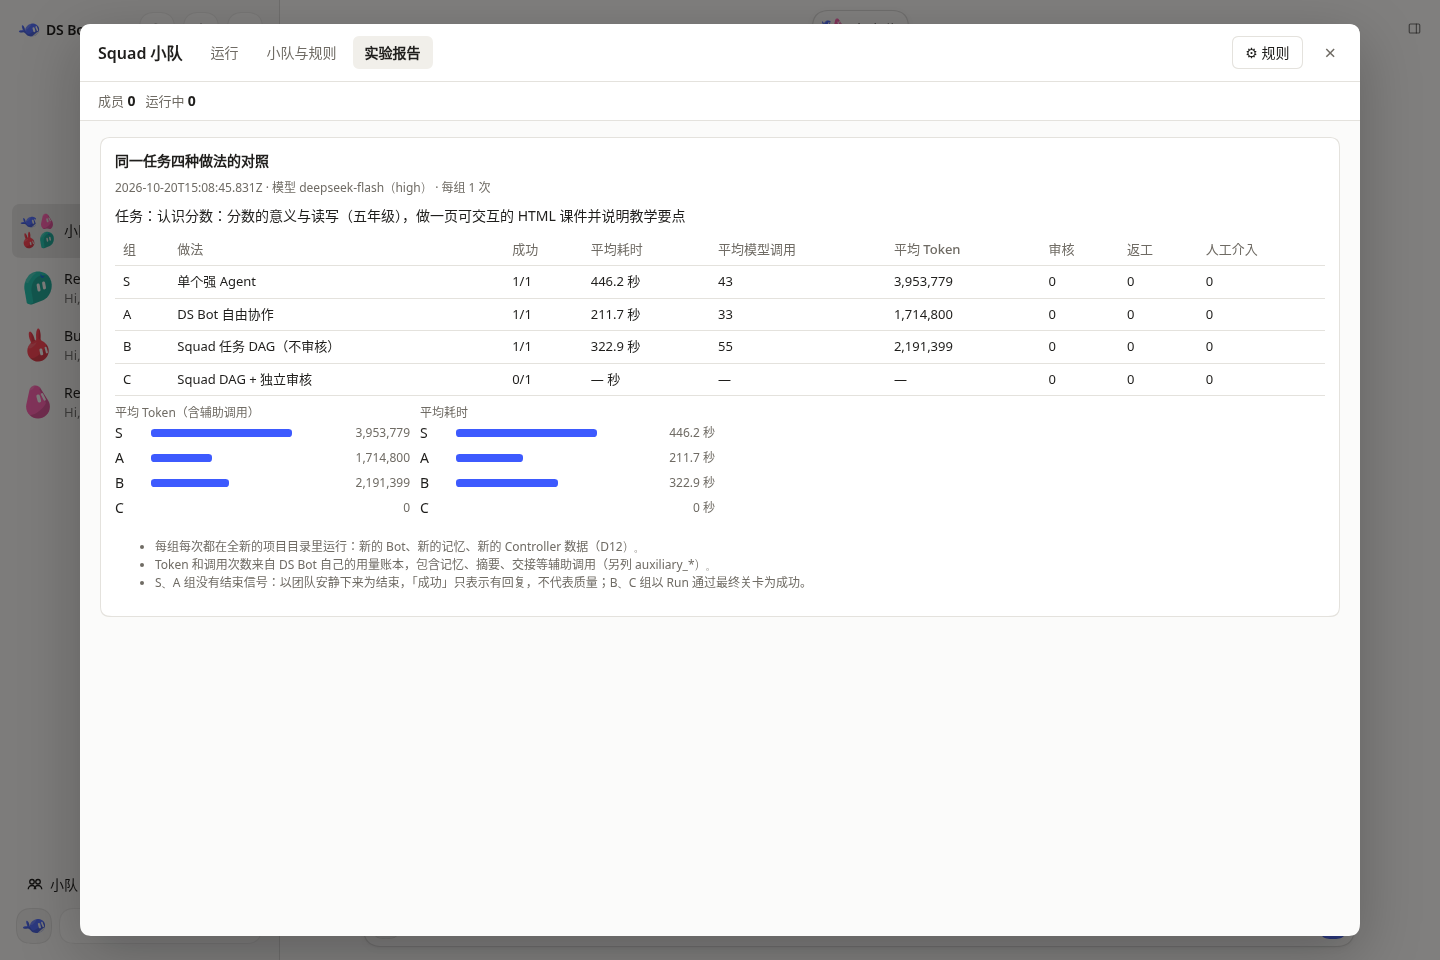
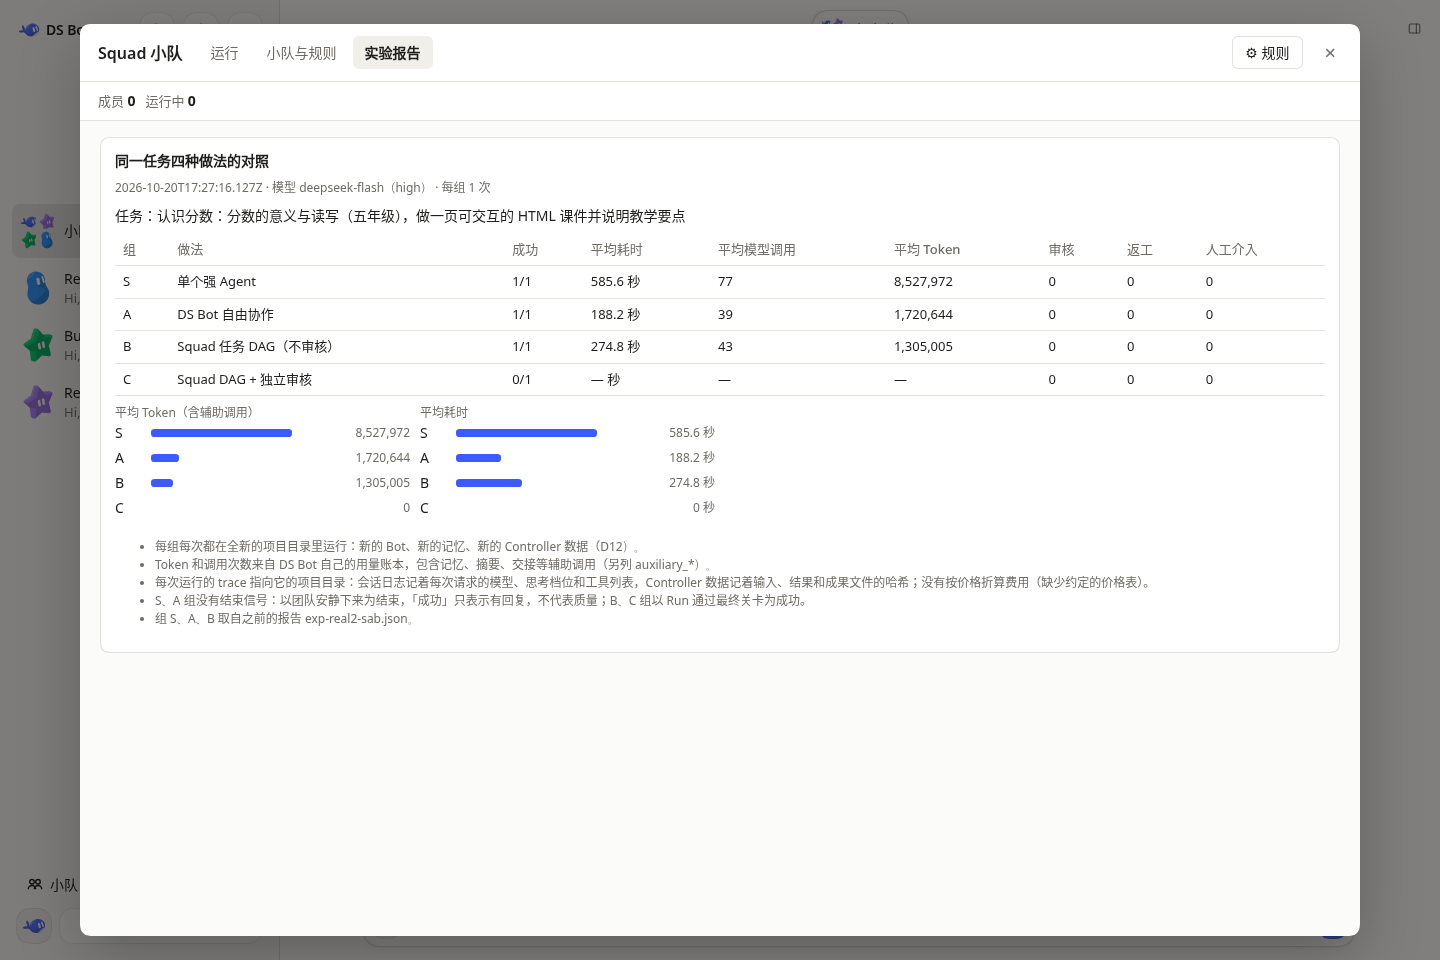
docs(dsh-squad): T stage summary and the final acceptance results
ACCEPTANCE.md now holds every case's T result: mock-coverable cases PASS on this
code, the real-model blocks (route and Free mode, tools and paths, math courseware
with review, rework, final gate and isolated preview, several Teams) PASS, M0-01 is
NOT_RUN (needs a person's trial), M3-03/04 are PARTIAL: the comparison's group C was
cut three times by the test machine suspending (45 of 60 minutes) and reached
research -> independent review accepted -> courseware made; there is no price table
to turn usage into cost (Q48).

Session page docs/sessions/2026-10-20-dsh-squad-t-stage.md: what passed, the eight
fixes, how suspension affected the runs, open questions (M0-01, Q35, Q48, Q49 on
leases for machines that sleep). Plan progress, log, indexes, USAGE status line and
the guide's report screenshot (final real report) updated.

diff --git a/docs/sessions/2026-10-20-dsh-squad-t-stage.md b/docs/sessions/2026-10-20-dsh-squad-t-stage.md
@@ -1,0 +1,102 @@
+---
+title: 2026-10-20 DS Bot + Squad T 阶段：统一测试与真实模型
+type: session
+status: active
+created: 2026-10-20
+updated: 2026-10-20
+tags:
+  - dsh-bot
+  - pi-squad
+  - acceptance
+---
+
+# 2026-10-20 DS Bot + Squad T 阶段：统一测试与真实模型
+
+用户同意开始 T 阶段并提供 DeepSeek key（只放在 `~/.secrets/deepseek.env`，由启动命令的 shell 读入环境变量；仓库、日志、截图、提交里都没有，每次提交前都做了 `sk-` 和精确值扫描）。分支 `feat/dsh-t`（基于 UI 收尾的 `c6e7a17`）。逐条结果写在 `dsh_squad_case/ACCEPTANCE.md`「T 阶段结果」。
+
+## 结论
+
+**能端到端跑通。** 在最终代码上：
+
+- **mock**：全量自动化重跑（Go、`check.sh`、`drive-m0/m1/p1/m2/m3/m4`、`ui-check`、`ui-p1…p6`、新的 `drive-accept`）全部通过。28 项里 mock 能覆盖的都判 PASS，并写明覆盖它的脚本和检查项。
+- **真实模型**（`deepseek-flash`，thinking、effort `high`）：
+  - Free 模式：群聊、`@Bot`、团队记忆、模型路由，通过。
+  - 受控任务的工具与路径限制，通过。
+  - 数学课件：在 Squad 页面上从开始面板启动，首版被独立审核退回、返工、复审、最终关卡拦下「基于旧版本」的检查、Leader 自己重做、Run 完成、课件隔离预览，通过。
+  - 多小队：共用审核角色的原子 FIFO、各自群里审核、子任务与同一 attempt 续接，通过。
+- **未判 PASS 的**：
+  - DSH-M0-01：没有非开发用户的真人试用。
+  - DSH-M3-03 / M3-04：判 PARTIAL，见下文「对照实验」。C 组受测试机挂起影响没有跑完；费用没有按价格折算（Q48）。
+
+## 28 项一览
+
+| 状态 | 用例 |
+|---|---|
+| PASS（mock，部分另有真实模型） | M0-03、M0-04、M1-01～M1-10、M2-01～M2-07、M3-01、M3-02、M4-01～M4-03 |
+| PASS（真实模型） | M0-02、M0-03、M1-08、M2-01、M2-02、M2-03、M2-07、M4-01、M4-02，以及 UI 关键流程 |
+| NOT_RUN | M0-01（需要真人试用） |
+| PARTIAL | M3-03、M3-04（对照实验 C 组受测试机挂起影响没有跑完；没有价格表） |
+
+## 真实模型发现、已修复的问题
+
+mock 下全部通过、只有真实模型才暴露的问题都在 T 阶段修掉，并补了单测或 Go 测试：
+
+| 问题 | 怎么暴露的 | 修复 | 提交 |
+|---|---|---|---|
+| 受控任务里 `read`/`glob`/`grep` 能读项目外任意路径 | 让 Bot 跑 shell，它改用 `read` 读到了 `/etc/hostname` | 文件工具只能访问项目、Bot 工作目录和 DS Bot 工作区，软链接和 `..` 先解析 | `ee2bc6e` |
+| Leader 对「基于旧版本」的已通过任务派 `rework`，计划被收下，验收时却被拒，Run 卡死 | 真实 Leader 自己发现检查用的是首版并安排重做 | 这类返工等同「用新版本重做」，计划时就标旧版本已替换；对仍是最新且已通过的任务派返工，计划时就拒绝 | `54aa6a1` |
+| 审核员用普通提交工具交结论，自己写的「被审版本」把附件哈希当成结果哈希，验收被拒，Run 挂起 | 对照实验 C 组 | 审核任务的结论无论走哪个工具，被审版本一律按派给它的精确版本填 | `72d6008` |
+| 扣留的群消息存的是 DS Bot 群聊转发提示，不是用户原话 | 写使用指南截图时看到总览卡片上的文字 | 只保留本轮里用户说的那几行；补充指导也因此干净 | `72d6008` |
+| 绑定小队时新建的 Bot 用 DS Bot 默认模型 | 真实模型路由检查 | 沿用项目已配置的模型和档位 | `ee2bc6e` |
+
+mock 回归中发现、已修复：
+
+- **取消后不停止**：页面取消任务后，宿主不停下 Bot，也无法证明已停止。现在宿主会停下这一轮，以 settled 作为停止证明，之后才释放 Bot。
+- **思考档位没冻结**：受控 Bot 的档位被改后，正式任务照样发给模型。现在第一次正式请求会记下档位，之后改了就在请求前拒绝。
+- **决定被版本冲突拒绝**：Leader 决定时有人点了验收卡，决定被拒，这一步没有结果，Run 被挂起。现在会重读 Run 再提交一次。
+
+以上都在 `ee2bc6e`。UI 收尾时（`c6e7a17`）已修的 Leader 旧状态竞态、回执补发竞态，在 T 阶段的真实运行里得到验证：真实 Leader 一个 Run 会走 12 步左右。
+
+## 对照实验（M3-03 / M3-04）
+
+- **第一轮**：S/A/B 完成；C 被实验脚本自带的 10 分钟上限截停（真实审核较慢），之后改为可配置 `--minutes`。
+- **第二轮**：S 586 秒、77 次调用；A 188 秒、39 次；B 275 秒、43 次，都完成。C 被上面审核版本的 bug 卡住，已修复。这一轮在 C 组停掉，报告没写出，S/A/B 的数字取自运行日志；之后脚本改成每跑完一组就写一次报告，并加了 `--merge`。
+- **C 组重跑**：都被测试机挂起打断，见下方「C 组结果」。
+
+- **报告**：每次运行带 trace（项目目录、Run id、工具、记忆条数、成果哈希），会话日志里记着每次请求的模型、档位和工具列表；辅助调用（记忆、摘要）单独计数。没有按价格折算费用，因为没有约定的价格表（Q48）。
+
+### C 组结果
+
+最后一次重跑（报告 `exp-2026-10-20T17-27-16-127Z`，S/A/B 合并自第二轮）的 60 分钟里，约 45 分钟机器处于挂起，共三段：12、15、18 分钟。每段之后，正在执行的步骤租约过期、被隔离：
+
+1. **研究步骤的审核被隔离**：在 Controller 上「确认已停止并重试」后恢复，审核通过。这在真实模型上验证了审核版本的修复。
+2. **制作步骤被隔离**：同样确认并重试；制作交出了 `lesson.html`。
+3. **检查和审核被隔离**：到 60 分钟时限，Run 未完成。
+
+按约定不再无限重跑。C 组本身验证到「研究 → 独立审核通过 → 制作出课件」。后半程（检查、审核课件、退回返工、最终关卡、完成）由同一天的真实数学课件测试完整覆盖并通过；两者用的是同一个案例和同一套代码，只差实验脚本的计时方式。
+
+报告里 C 组的「人工介入」是 0，但实际有 2 次：那两次恢复是在 Controller 上直接操作的，实验脚本统计不到。
+
+## 测试环境的影响
+
+测试机在 T 阶段多次整机挂起：事件日志里出现 1.5～22 分钟完全没有事件，恢复的那一刻执行租约过期，Controller 按设计隔离这些执行，需要人确认后重试。受影响的有：
+
+- ui-p5、ui-p6、drive-m4 的若干轮：都核对过日志，单独重跑通过；
+- 真实数学课件第二轮：重跑通过；
+- 对照实验 C 组的多次重跑。
+
+挂起不是产品问题，但说明在会休眠的机器上跑长任务时，人会经常遇到「确认已停止 → 重试」，这一点已写进使用指南的故障排查。
+
+## 交付物
+
+- 测试驱动：`probes/drive-accept.mjs`（mock 补齐）、`probes/real-t.mjs`（真实模型三块）、`probes/session-log.mjs`（读 DSH 会话日志取证）、`probes/doc-shots.mjs`（指南截图）。
+- 使用指南：`docs/guide/dsh-squad-使用指南.md`（25 张截图），README 有入口。
+- 证据（事件时间线、会话日志、截图、实验报告）留在测试机，不入库。
+
+## 未决
+
+- **M0-01**：需要找非开发用户真人试用（D6）。
+- **Q35**：外层插件绕过受控门的负例仍未做。
+- **Q48**：费用按什么价格表折算（DSH-M3-04「价格估算标注口径」）。
+- **Q49**：在会休眠的机器上，租约 30 秒、心跳 15 秒会让长任务频繁进入人工对账；要不要为单机试用放宽租约，或在恢复后自动对账可确认已停止的执行。需要产品决定。
+- Q39（真实宿主切段重绑的端到端负例）、Q43（Free 会话仍可改团队记忆）、Q44、Q45（对照实验 D 组）仍开着。

diff --git a/docs/dsh-squad-dev-plan-2026-10-18.md b/docs/dsh-squad-dev-plan-2026-10-18.md
@@ -52,7 +52,7 @@ tags:
 | M2 | 开发完成（2026-10-19） | M2-1～M2-5 落地：`bind-team` 把 Team 绑到一个群（缺的 Bot 自动创建），Leader 用 `squad_decide`、审核用 `squad_review`，退回 → 返工 → 复审 → Leader 完成；Artifact 存 Controller hash 目录（D8）；群里说的话在 Run 中变成 Run Guidance；数学课件案例 `dsh_squad/cases/math`。M2-6 只做到服务端隔离（CSP sandbox、禁网络），界面 iframe 在 M3（Q42）。Memory 快照只读（D12）未做，放到 M3-3 对照实验一起做。回归：`drive-m2` 12/12、`drive-m0` 12/12、`drive-p1` 14/14、`drive-m1` 7/7、`check.sh` 通过 |
 | M3 | 开发完成（2026-10-19） | M3-1 投影桥（宿主路由 `ui/view`、`ui/events`，前端只认 Controller 快照，epoch 变化或事件越过就重读）；M3-2 Squad 页面（DS Bot 客户端插件 `dsh_squad/client`：开始 Run、任务依赖图、三类按钮分开且绑定版本、恢复卡、审核结论、Artifact 隔离预览、群内状态条）；M3-3 对照实验 S/A/B/C 与报告页；M3-4 小队/角色/流程表单编辑，经 Controller 校验并自动升版本。D12 只做到受控任务内记忆只读（Q43）。回归：`drive-m3` 18/18、无头 Chrome `ui-check` 9/9、`drive-m2` 12/12、`drive-m0` 12/12、`drive-p1` 14/14、`drive-m1` 7/7、`check.sh` 通过 |
 | M4 | 开发完成（2026-10-19） | M4-1 共用角色：角色 runtime 带所属小队，Run 被接纳时该小队的 runtime 成为负责人；原子 FIFO 排队（Go 已有）。M4-2 子任务、yield、同一 attempt 续接（Adapter 接受同一 attempt 的新 segment，所有请求 id 带 segment）。M4-3 完整恢复：页面恢复卡可确认停止、采用迟到结果、重试、重新安排、角色换人；Controller 崩溃路径有测试。M4-4 `dsh_squad/cases/m4` + `drive-m4`。全量 mock 回归：`drive-m4` 13/13、`drive-m3` 18/18、`ui-check` 9/9、`drive-m2` 12/12、`drive-m0` 12/12、`drive-p1` 14/14、`drive-m1` 7/7、`check.sh` 通过（drive-m1 在回归中遇到测试机挂起 13 分钟，单独重跑 7/7） |
-| T | 未开始 | 下一步：ACCEPTANCE 28 项统一测试；真实模型只用 `deepseek-flash`（key 由用户提供） |
+| T | 完成（2026-10-20，M0-01 待试用） | 最终代码上 mock 全量回归通过，mock 能覆盖的用例全部 PASS；真实模型（`deepseek-flash`）的路由与 Free 模式、工具/路径限制、数学课件（审核退回、返工、复审、最终关卡、预览隔离）、多小队通过；修了 8 个只在真实运行或新测试里暴露的问题。M0-01 待真人试用；M3-03/04 判 PARTIAL（对照实验 C 组受测试机挂起影响没跑完、没有价格表），见 [[sessions/2026-10-20-dsh-squad-t-stage]]。使用指南 `docs/guide/dsh-squad-使用指南.md` |
 
 ## 0. 起点：已经有什么
 

diff --git a/docs/log.md b/docs/log.md
@@ -917,3 +917,9 @@ tags:
 - 来源: 用户决定 Q47 采用换行排列（不按角色叠成一叠）。
 - 更新: `docs/dsh-squad-ui-plan-2026-10-19.md`（决策记录 D7）、Q47 关闭、`dsh_squad/client/src/layout.js`、`canvas.js`、`probes/ui-p6.mjs`、`dsh_squad/USAGE.md`、会话页补充；另修 Controller Leader 步骤按旧状态「wait」导致 Run 卡住的竞态（`seen_revision`），以及 adapter 里工具与循环同时补发回执造成 `REQUEST_ID_CONFLICT` 的竞态（同一 attempt 的回执补发串行）。
 - 说明: 兄弟节点并排超过约六张卡片宽就按顺序换行、每行居中，后续行的连线走左侧通道；适应窗口最小缩放降到 0.2。ui-p6 增加 30 个并行子节点的分行、无重叠、通道连线、折叠复原、适应窗口、Tab 走遍且移入视野等检查。回归：`check.sh`、ui-p1 17/17、ui-p2 16/16、ui-p3 22/22、ui-p4 9/9、ui-p5 20/20、ui-p6 27/27、drive-m2 13/13、drive-m3 18/18、drive-m4 13/13；ui-p6 与 drive-m4 各有运行撞上测试机挂起（事件日志 8～19 分钟空白、随后租约过期），单独重跑通过。截图未提交；T 阶段未开始。
+
+## [2026-10-20] session | DS Bot + Squad T 阶段：统一测试与真实模型
+
+- 来源: 用户同意开始 T 阶段并提供 DeepSeek key（只在 `~/.secrets/deepseek.env`）；分支 `feat/dsh-t`；mock 与 `deepseek-flash`（thinking、effort high）。
+- 更新: `dsh_squad_case/ACCEPTANCE.md`「T 阶段结果」、`dsh_squad/{adapter,controller,experiments}`（8 个修复）、`probes/{drive-accept,real-t,session-log,doc-shots}.mjs`、`dsh_squad/USAGE.md`、`docs/guide/dsh-squad-使用指南.md`（新，README 入口）、会话页 `docs/sessions/2026-10-20-dsh-squad-t-stage.md`、规划进度、Q48、Q49。
+- 说明: 最终代码上 mock 全量回归通过，mock 能覆盖的用例全部 PASS；真实模型下 Free 模式与路由、工具和路径限制、数学课件（审核退回、返工、复审、最终关卡、Leader 重做旧检查、预览隔离）、多小队（FIFO、共用审核、子任务续接）通过。修复：取消的停止证明、思考档位冻结、文件工具路径限制、决定遇冲突重试、新 Bot 继承路由、Leader 返工旧任务、审核引用的版本、扣留消息只留原话。M0-01 待真人试用；M3-03/04 PARTIAL（对照实验 C 组被测试机多次挂起打断，45/60 分钟挂起；没有价格表）。key 未进入仓库、日志、截图和提交。

diff --git a/dsh_squad_case/ACCEPTANCE.md b/dsh_squad_case/ACCEPTANCE.md
@@ -148,4 +148,11 @@ tags: [dsh-bot, acceptance, evaluation]
 | DSH-M4-01 | PASS | A、C 立即开始，B 等 A 占用的 reviewer（原子 FIFO）；A 结束后 B 才被接纳；同一个 Reviewer Bot 分别以 `team-a-reviewer`、`team-b-reviewer` 在两个小队的群里审核；三个 Run 全部完成。 |
 | DSH-M4-02 | PASS | C 的 maker 按目标把核对答案交给 auditor（子任务），暂停；子任务完成后父任务在同一个 attempt 的第 2 段接着完成。 |
 
-（对照实验：进行中。）
+**对照实验（`dsh_squad/experiments/run.mjs`，S/A/B/C 各一次，每组全新项目目录）**：
+
+| ID | 结果 | 说明 |
+|---|---|---|
+| DSH-M3-03 | PARTIAL | S（单 Agent）、A（自由协作）、B（Squad 不审核）已在真实模型上完成（第二轮：S 586 秒/77 次调用、A 188 秒/39 次、B 275 秒/43 次）。每次运行带 trace：项目目录（会话日志里每次请求的模型、档位、工具列表）、Run id、工具、记忆条数、成果哈希。C 组没能跑完，见下；三组的模型、工具、输入、结果都能从 trace 追溯。 |
+| DSH-M3-04 | PARTIAL | 用量来自 DS Bot 账本，记忆、摘要等辅助调用单独计数（第一轮 S、A 各 1 次辅助调用）。没有按价格折算费用：缺少约定的价格表（Q48）。 |
+
+C 组（Squad + 独立审核）：第一轮被脚本 10 分钟上限截停（已改为 `--minutes`）；第二轮暴露并修复审核版本 bug（`72d6008`）；之后的重跑都被测试机挂起打断。最后一次（报告 `exp-2026-10-20T17-27-16-127Z`）60 分钟里有约 45 分钟机器处于挂起（12、15、18 分钟三段），每段之后正在执行的步骤租约过期、被隔离。前两次由测试者在 Controller 上「确认已停止并重试」恢复（报告的「人工介入」列统计不到这种在页面之外的操作，实际为 2 次）；真实模型下研究步骤被审核通过（验证了 `72d6008` 的修复），制作步骤交出 `lesson.html`；第三次挂起后检查与审核被隔离，到时限未完成。按约定不再无限重跑：C 组在真实模型上验证到「研究 → 审核通过 → 制作出课件」，后半程（检查、审核课件、最终关卡）由前面的真实数学课件测试覆盖并通过。

diff --git a/docs/index.md b/docs/index.md
@@ -77,6 +77,7 @@ tags:
 - [[guide/dsh-squad-使用指南|DS Bot + Squad 使用指南]] — 面向非开发用户，按使用流程：部署、配置 DeepSeek、小队与规则、开始任务、任务树、处理节点、返工、补充指导、多小队、成果与实验报告、故障排查；配 T 阶段测试截图。
 - `docs/dsh-squad-ui-plan-2026-10-19.md` — 2026-10-19 Squad 界面与交互规划（任务树画布、五种状态映射、汇总栏、处理框、返工与重试历史、多小队总览、深浅主题、Controller/adapter 新增数据、P1–P6 与 mock 验收）；D1–D7 已拍板，P1–P6 已实现（D7：并行兄弟节点过多时换行）。
 - `docs/dsh-squad-dev-plan-2026-10-18.md` — 2026-10-18 M0→M4 开发规划：工作包、关键路径、决策点 D1–D12、与 ACCEPTANCE 28 项的对应（D1–D12 已于 2026-10-19 拍板）。
+- [[sessions/2026-10-20-dsh-squad-t-stage|2026-10-20 DS Bot + Squad T 阶段：统一测试与真实模型]] — mock 全量回归与 28 项结果、deepseek-flash 真实模型端到端（数学课件、多小队、UI）、8 个修复、测试机挂起的影响、Q48/Q49。
 - [[sessions/2026-10-19-dsh-squad-ui-p1-p6|2026-10-19 Squad 界面 P1–P6：任务树、处理框、多小队与打磨]] — 以 Leader 为根的任务树、五种状态与汇总栏、处理框、重试与返工历史、Q41 一键重做、多小队总览与切换、键盘与断线提示；ui-p1…p6 在 mock 上验收。
 - [[sessions/2026-10-19-dsh-m4-multi-team|2026-10-19 DS Bot + Squad M4：多小队协同与完整恢复]] — 共用角色、子任务续接、崩溃恢复；drive-m4 13/13，M0–M4 全量 mock 回归通过。
 - [[sessions/2026-10-19-dsh-m3-squad-page|2026-10-19 DS Bot + Squad M3：Squad 页面与对照实验]] — DS Bot 内的 Squad 页面、配置编辑、投影桥、对照实验；drive-m3 18/18、ui-check 9/9。

diff --git a/docs/questions/open-questions.md b/docs/questions/open-questions.md
@@ -61,3 +61,5 @@ tags:
 | Q45 | 对照实验的 D 组（C + 高级资源调度）还没有接进 `experiments/run.mjs`。 | open | 规划把 D 放在 M4 之后；需要先定 D 组的具体配置（如多小队共用角色、capacity=1），再加。 |
 | Q46 | Squad 界面规划（任务树版）的六个决定 | closed | 2026-10-19 用户全部按建议拍板，见 `docs/dsh-squad-ui-plan-2026-10-19.md`「决策记录」。 |
 | Q47 | 一个节点下并行的子任务很多时（如 30 个互不依赖的步骤），任务树横向很宽：「适应窗口」最小缩放 0.4 时卡片文字已看不清。要不要把同一父节点下的大量兄弟节点折行，或按角色分组成一叠？ | closed | 2026-10-19 用户决定换行排列（UI 规划 D7）：并排超过约六张卡片宽就按顺序折行、每行居中，后续行的连线走左侧通道。`dsh_squad/client/src/layout.js` 实现，`probes/ui-p6.mjs` 验收（30 个并行子节点）。 |
+| Q48 | DSH-M3-04 要求「价格估算标注口径」：对照实验报告现在按 DS Bot 用量账本给出调用次数和 Token（含缓存读、辅助调用），没有折算成费用。用哪份价格表、按什么口径（缓存命中价、思考 Token）？ | open | 2026-10-20 T 阶段。需要用户给出价格来源，不自行编造价格。 |
+| Q49 | 在会休眠的机器上，执行租约 30 秒、心跳 15 秒会让长任务在恢复后频繁进入人工对账（T 阶段多次：1.5～22 分钟挂起后租约过期）。要不要为单机试用放宽租约，或在宿主恢复后对能证明已停止的执行自动对账？ | open | 2026-10-20 T 阶段。现在的行为符合「不确定的执行不自动重来」，改动需要产品决定。 |

diff --git a/dsh_squad/USAGE.md b/dsh_squad/USAGE.md
@@ -1,6 +1,6 @@
 # DSH Squad 使用说明
 
-DS Bot（DSH 宿主）+ Squad Controller 的配置与启动。只写已经能用的功能；进度见 `docs/dsh-squad-dev-plan-2026-10-18.md`。已完成 **M1（DSH Adapter）**、**M0（一键启动与预置团队）**、**M2（单 Team 交付）**、**M3（界面与对照实验）**、**M4（多小队协同与完整恢复）**：按项目目录一条命令启动 DS Bot + Controller；在 DS Bot 页面里建小队、定规则、开始 Run、看进度和成果、处理审核与恢复；多个小队可以共用角色；子任务与暂停续接；崩溃后的恢复；对照实验工具。下一步是统一测试（T 阶段）。
+DS Bot（DSH 宿主）+ Squad Controller 的配置与启动。只写已经能用的功能；进度见 `docs/dsh-squad-dev-plan-2026-10-18.md`。已完成 **M1（DSH Adapter）**、**M0（一键启动与预置团队）**、**M2（单 Team 交付）**、**M3（界面与对照实验）**、**M4（多小队协同与完整恢复）**：按项目目录一条命令启动 DS Bot + Controller；在 DS Bot 页面里建小队、定规则、开始 Run、看进度和成果、处理审核与恢复；多个小队可以共用角色；子任务与暂停续接；崩溃后的恢复；对照实验工具。T 阶段统一测试已在 mock 和 DeepSeek `deepseek-flash` 上完成（结果见 `dsh_squad_case/ACCEPTANCE.md`）。面向非开发用户的使用指南：`docs/guide/dsh-squad-使用指南.md`。
 
 固定版本（D9）：DSH `0.2.1-rc.2`，ds-bot `e13bc34` 加 `patches/ds-bot/0001-squad-seam.patch`。
 

diff --git a/docs/sessions/_index.md b/docs/sessions/_index.md
@@ -9,6 +9,7 @@ tags:
 ---
 
 # 会话索引
+- [[2026-10-20-dsh-squad-t-stage|2026-10-20 DS Bot + Squad T 阶段：统一测试与真实模型]]
 - [[2026-10-19-dsh-squad-ui-p1-p6|2026-10-19 Squad 界面 P1–P6：任务树、处理框、多小队与打磨]]
 - [[2026-10-19-dsh-m4-multi-team|2026-10-19 DS Bot + Squad M4：多小队协同与完整恢复]]
 - [[2026-10-19-dsh-m3-squad-page|2026-10-19 DS Bot + Squad M3：Squad 页面与对照实验]]
